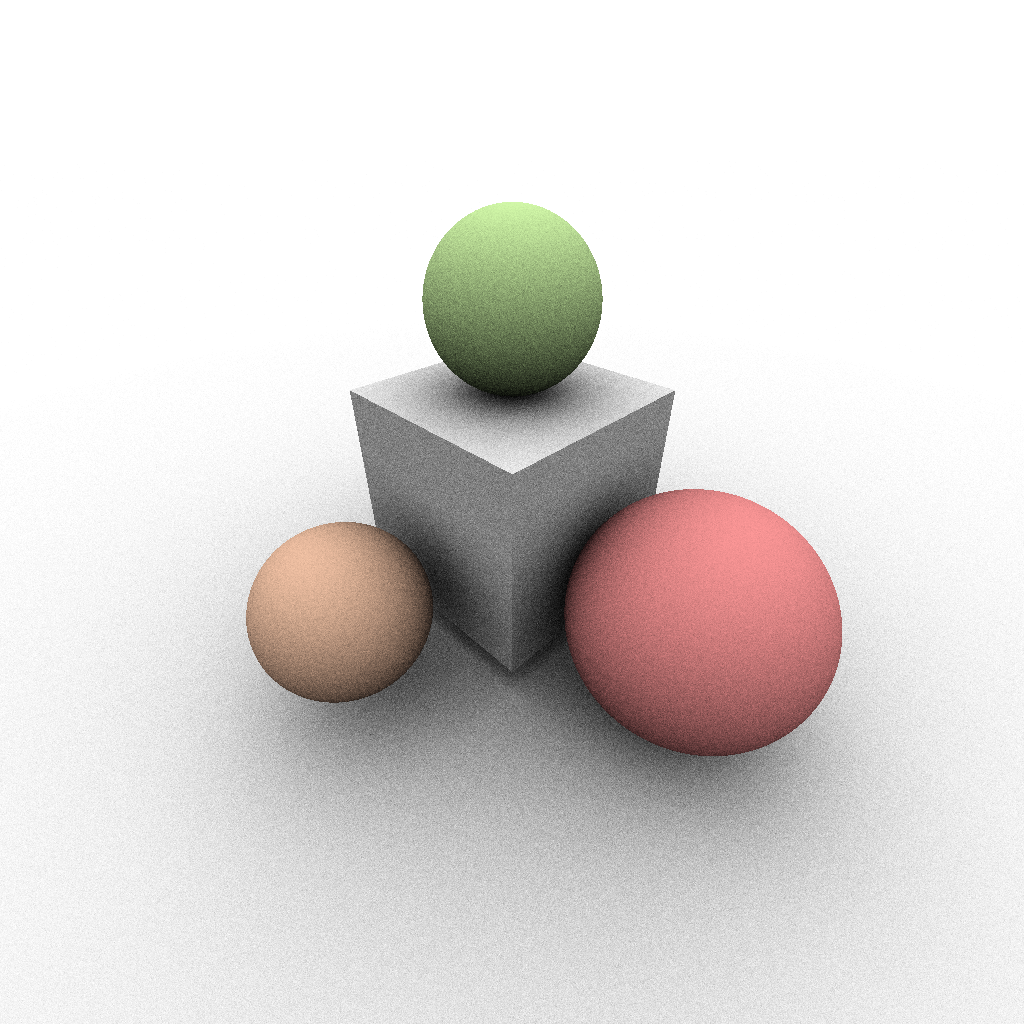
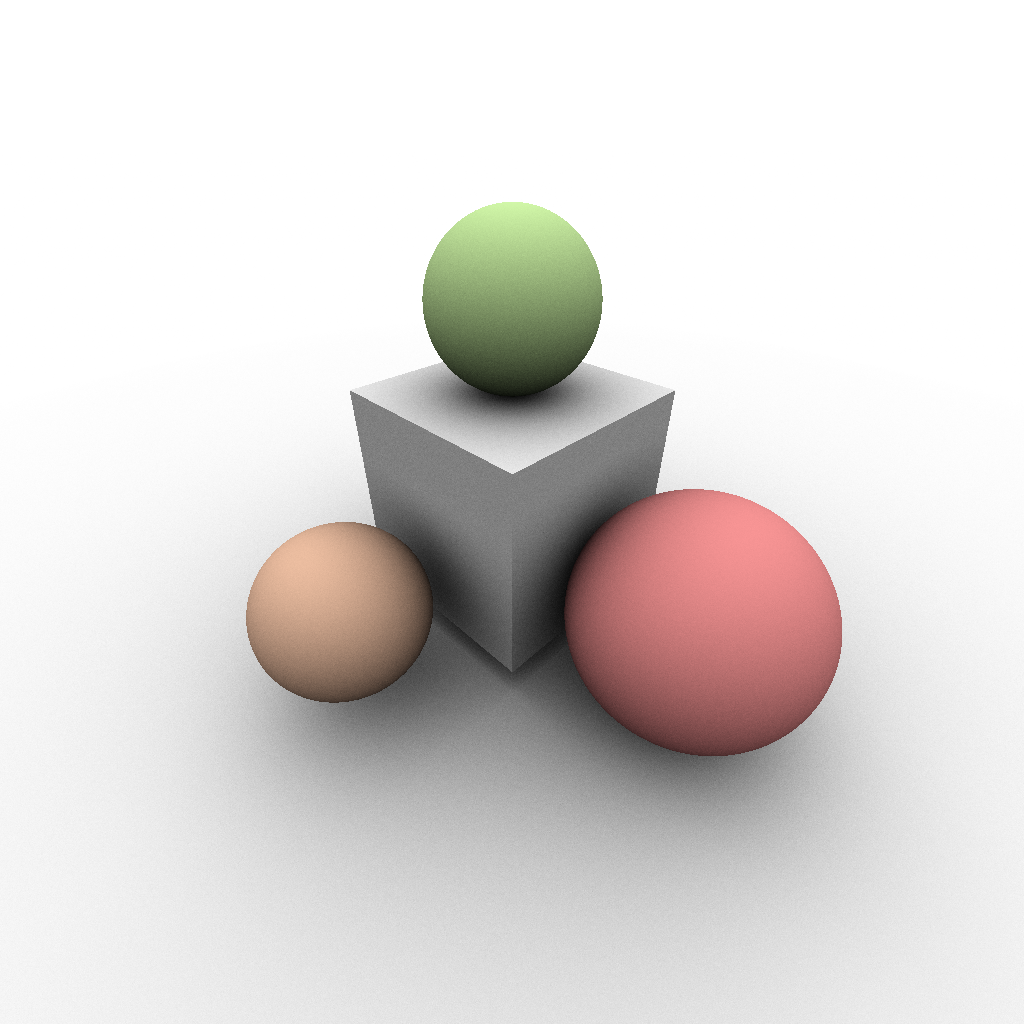
parallel

diff --git a/main.cpp b/main.cpp
@@ -33,7 +33,7 @@ float3 BACKGROUND_COLOR = float3(0.0);
 
 
 int ray_marching(
-  Scene scene, float3 cur_pos, float3 cur_dir, 
+  Scene &scene, float3 cur_pos, float3 cur_dir, 
   float3 &intersect_point, 
   float3 &intersect_normal, 
   Material &mat
@@ -68,7 +68,7 @@ int ray_marching(
 
 
 int ray_tracing( 
-  Scene scene, float3 cur_pos, float3 cur_dir, 
+  Scene &scene, float3 cur_pos, float3 cur_dir, 
   float3 &intersect_point, 
   float3 &intersect_normal, 
   Material &mat
@@ -115,7 +115,7 @@ int ray_tracing(
 }
 
 
-float ambient_occlusion(Scene scene, float3 point, float3 normal) {
+float ambient_occlusion(Scene &scene, float3 point, float3 normal) {
   int cnt = 0;
   float radius = 10.0f;
   for (int i = 0; i < DIFFUSE_RAYS_COUNT; ++i) {
@@ -260,6 +260,7 @@ int main(int argc, char **argv)
   }
   std::vector<float> image(3*W*H, 0.0f);
   std::cout << "\nRendering started...\n";
+  #pragma omp parallel for schedule(dynamic, 1)
   for (int x = 0; x < W; ++x) {
     for (int y = 0; y < H; ++y) {
       float3 new_dir = screen_offset(camera.dir, x, y, W, H, FOV_H, FOV_V);

diff --git a/custom_utils.h b/custom_utils.h
@@ -34,9 +34,8 @@ float3 screen_offset(float3 dir, int x, int y, const int W, const int H, float f
 
 
 float random_float() {
-    static std::random_device rd;
-    static std::mt19937 gen(rd());
-    static std::uniform_real_distribution<float> dist(0.0f, 1.0f);
+    thread_local std::mt19937 gen(std::random_device{}());
+    thread_local std::uniform_real_distribution<float> dist(0.0f, 1.0f);
     return dist(gen);
 }
 
